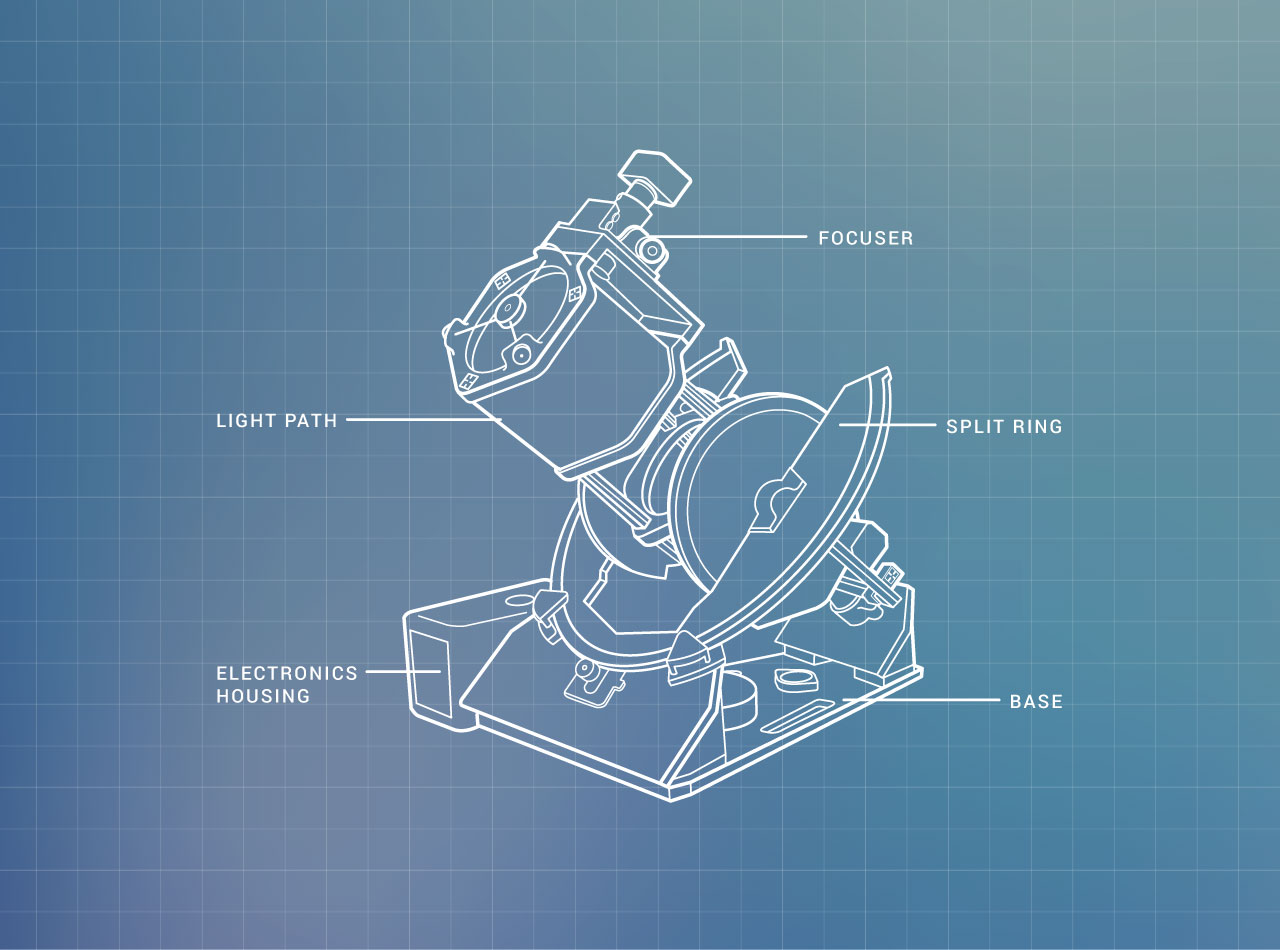
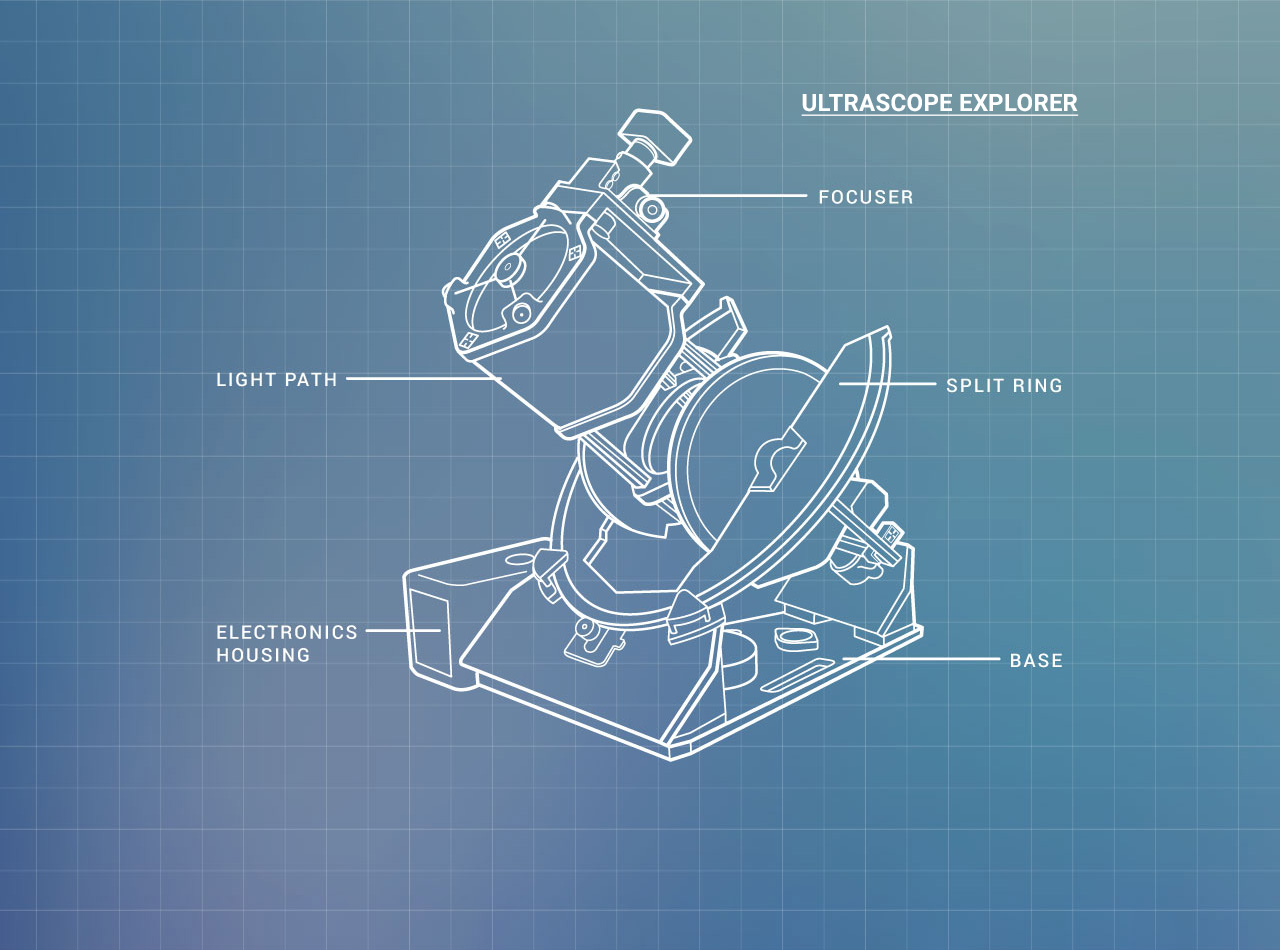
Link updates & adding heading to the gallery blueprints
+ updated links for live environment
+ updated image galleries to include heading for ultrascope odyssey and
explorer

Changed region(s): [[0.1562, 0.0916, 0.8438, 0.8547], [0.1562, 0.6411, 0.2812, 0.7632], [0.625, 0.0916, 0.8438, 0.1221]]

diff --git a/contact/index.html b/contact/index.html
@@ -48,7 +48,7 @@
                 </li>
                 <li>
                     <div class="nav-CTA">
-                        <a href="#" > Work With Us </a>
+                        <a href="/work-with-us" > Work With Us </a>
                     </div>
                 </li>
             </ul>

diff --git a/team/index.html b/team/index.html
@@ -47,7 +47,7 @@
                 </li>
                 <li>
                     <div class="nav-CTA">
-                        <a href="#" > Work With Us </a>
+                        <a href="/work-with-us" > Work With Us </a>
                     </div>
                 </li>
             </ul>
